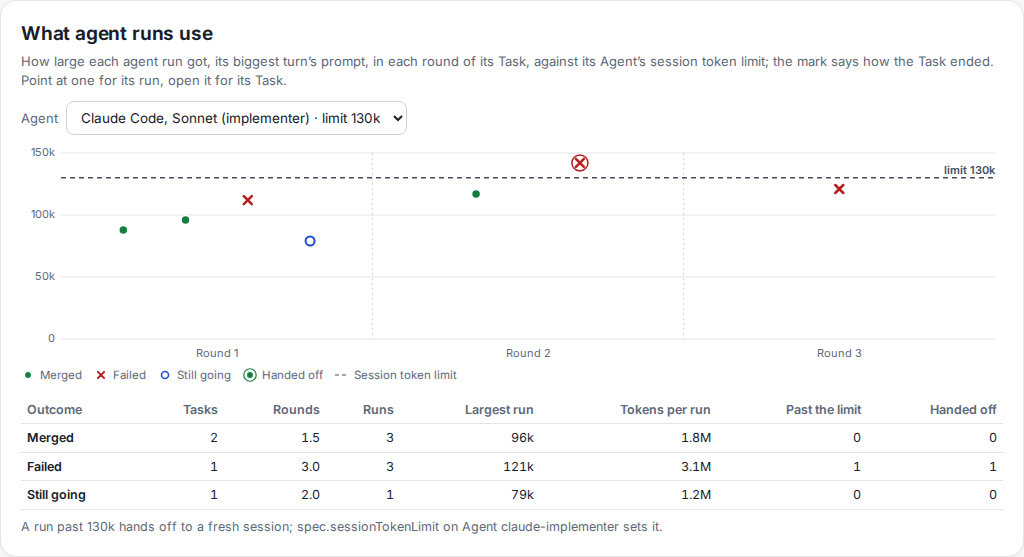
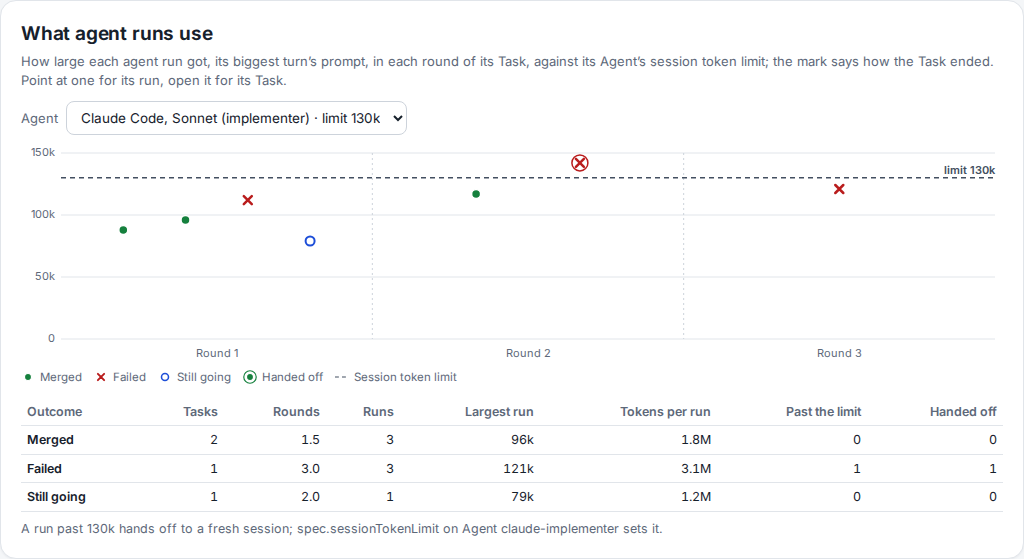
Answer the review of the agent-runs chart
- An Agent the panel can't find because the Agents couldn't be read says
  so, instead of calling it gone.
- The run links keep the focus ring.
- A band too narrow for "Round 10" says only the round's number.
- The legend has its own styles, not health.css's.
- A run without a largest session "didn't report how large it got".
- tokens.ts looks Agents up with findAgent and takes median from
  factory.ts; rows.ts calls runRole directly.

Refs #1086

Agent: otter-1086

diff --git a/ui/src/components/factory/TokensPanel.tsx b/ui/src/components/factory/TokensPanel.tsx
@@ -4,7 +4,7 @@
 
 import { useId, useMemo, useState, type ReactNode } from 'react'
 import type { Problem } from '../../k8s/sources'
-import type { Agent, Task } from '../../k8s/types'
+import { RESOURCES, type Agent, type Task } from '../../k8s/types'
 import { formatTokens } from '../../model/brief'
 import { plural } from '../../model/describe'
 import {
@@ -40,6 +40,8 @@ export function TokensPanel({
   const [picked, setPicked] = useState<string>()
   const shown = charted.find((a) => a.key === picked) ?? charted[0]
   const id = useId()
+  // An Agent the panel can't find may only be unreadable: the Agents are an optional read.
+  const agentsUnread = problems.some((p) => p.resource === RESOURCES.agents)
   const namespaces = new Set(charted.map((a) => a.namespace))
   const label = (a: AgentTokens) =>
     `${a.title}${namespaces.size > 1 ? ` (${a.namespace})` : ''}${a.limit ? ` · limit ${formatTokens(a.limit)}` : ''}`
@@ -58,7 +60,7 @@ export function TokensPanel({
         loading="Loading the agent runs…"
         emptyText={
           unreported
-            ? `None of the ${plural(unreported, 'agent run')} that ended reported its tokens yet; the stand-in agent reports none.`
+            ? `None of the ${plural(unreported, 'agent run')} that ended reported how large it got; the stand-in agent reports none.`
             : 'No agent run has ended yet: each shows here once its Task records it.'
         }
         small
@@ -92,9 +94,9 @@ export function TokensPanel({
               <OutcomeTable agent={shown} />
             </div>
             <p className="panel-note">
-              {limitNote(shown)}
+              {limitNote(shown, agentsUnread)}
               {shown.unreported
-                ? ` ${plural(shown.unreported, 'more run')} of this Agent didn’t report ${shown.unreported > 1 ? 'their' : 'its'} tokens.`
+                ? ` ${plural(shown.unreported, 'more run')} of this Agent didn’t report how large ${shown.unreported > 1 ? 'they' : 'it'} got.`
                 : ''}
             </p>
           </>
@@ -104,12 +106,17 @@ export function TokensPanel({
   )
 }
 
-function limitNote(agent: AgentTokens): string {
-  if (!agent.found) return `Agent ${agent.name} is gone, so its limit is unknown.`
+function limitNote(agent: AgentTokens, agentsUnread: boolean): string {
+  if (!agent.found)
+    return agentsUnread
+      ? `The Agents could not be read, so the limit of Agent ${agent.name} is unknown.`
+      : `Agent ${agent.name} is gone, so its limit is unknown.`
   if (agent.limit === undefined) return `Agent ${agent.name} sets no session token limit.`
   return `A run past ${formatTokens(agent.limit)} hands off to a fresh session; spec.sessionTokenLimit on Agent ${agent.name} sets it.`
 }
 
+/** The narrowest band that fits "Round 10"; a narrower one says only the number. */
+const ROUND_LABEL_WIDTH = 64
 /** The width the chart draws at before it has measured its own, as on the server. */
 const WIDTH = 640
 const H = 220
@@ -156,7 +163,7 @@ function RunChart({ agent, pageHref }: { agent: AgentTokens; pageHref: ObjectHre
                 />
               ) : null}
               <text className="tokens-tick" x={LEFT + (r - 0.5) * band} y={H - 6} textAnchor="middle">
-                Round {r}
+                {band >= ROUND_LABEL_WIDTH ? `Round ${r}` : r}
               </text>
             </g>
           ))}
@@ -212,7 +219,7 @@ function Mark({ outcome, handedOff, x, y }: { outcome: Outcome; handedOff: boole
 
 function Legend({ limit }: { limit: boolean }) {
   return (
-    <div className="spark-legend tokens-legend">
+    <div className="tokens-legend">
       {OUTCOMES.map((o) => (
         <span key={o.key}>
           <LegendKey>

diff --git a/ui/src/components/factory/TokensPanel.test.ts b/ui/src/components/factory/TokensPanel.test.ts
@@ -2,7 +2,8 @@ import { createElement } from 'react'
 import { renderToStaticMarkup } from 'react-dom/server'
 import { describe, expect, it } from 'vitest'
 import { demoStory } from '../../demo/fixture'
-import type { Task } from '../../k8s/types'
+import type { Problem } from '../../k8s/sources'
+import type { Agent, Task } from '../../k8s/types'
 import { TokensPanel } from './TokensPanel'
 
 const text = (html: string) =>
@@ -13,13 +14,13 @@ const text = (html: string) =>
 
 const story = demoStory(Date.parse('2026-10-16T04:00:00Z'))
 
-function panel(tasks: Task[] = story.tasks, loaded = true) {
+function panel(tasks: Task[] = story.tasks, loaded = true, agents: Agent[] = story.agents, problems: Problem[] = []) {
   return renderToStaticMarkup(
     createElement(TokensPanel, {
       tasks,
-      agents: story.agents,
+      agents,
       loaded,
-      problems: [],
+      problems,
       pageHref: (ns: string, kind: string, name: string) => `/?ns=${ns}&kind=${kind}&name=${name}`,
     }),
   )
@@ -72,7 +73,25 @@ describe('What agent runs use (#1086)', () => {
     }))
     const html = panel(standIn)
     expect(html).not.toContain('tokens-chart')
-    expect(text(html)).toContain('None of the 12 agent runs that ended reported its tokens yet')
+    expect(text(html)).toContain('None of the 12 agent runs that ended reported how large it got')
     expect(text(panel([], false))).toContain('Loading the agent runs…')
+  })
+
+  it('tells an Agent it can’t read from one that is gone', () => {
+    const forbidden: Problem = { what: 'agents', code: 403, message: 'agents is forbidden', resource: 'agents' }
+    expect(text(panel(story.tasks, true, [], [forbidden]))).toContain(
+      'The Agents could not be read, so the limit of Agent claude-implementer is unknown.',
+    )
+    const gone = text(panel(story.tasks, true, []))
+    expect(gone).toContain('Agent claude-implementer is gone, so its limit is unknown.')
+    expect(gone).not.toContain('limit 130k')
+  })
+
+  it('numbers the rounds alone when the bands are too narrow to say "Round 10"', () => {
+    const [first] = story.tasks
+    const long = { ...first, status: { ...first.status, round: 10, runs: [{ ...first.status!.runs![0], round: 10 }] } }
+    const labels = [...panel([long]).matchAll(/text-anchor="middle">(.*?)<\/text>/g)].map((m) => m[1])
+    expect(labels).toEqual(['1', '2', '3', '4', '5', '6', '7', '8', '9', '10'])
+    expect(panel()).toContain('>Round 3</text>')
   })
 })

diff --git a/ui/src/model/tokens.ts b/ui/src/model/tokens.ts
@@ -6,7 +6,7 @@
 import type { Agent, Task, TaskAgentRun, TokenUsage } from '../k8s/types'
 import { formatTokens } from './brief'
 import { plural } from './describe'
-import { taskHeadline, taskKey } from './factory'
+import { findAgent, median, taskHeadline, taskKey } from './factory'
 
 /** How a run's Task ended: merged, failed, or not yet. */
 export type Outcome = 'merged' | 'failed' | 'active'
@@ -161,7 +161,7 @@ export function agentTokens(tasks: Task[], agents: Agent[]): AgentTokens[] {
 }
 
 function newEntry(agents: Agent[], namespace: string, name: string): AgentTokens {
-  const agent = agents.find((a) => a.metadata.name === name && (a.metadata.namespace ?? '') === namespace)
+  const agent = findAgent(agents, namespace, name)
   return {
     key: `${namespace}/${name}`,
     name,
@@ -189,19 +189,13 @@ export function outcomeRows(points: RunPoint[], limit: number | undefined): Outc
       tasks: rounds.size,
       meanRounds: [...rounds.values()].reduce((a, b) => a + b, 0) / rounds.size,
       runs: runs.length,
-      medianLargest: median(runs.map((p) => p.largest)),
+      medianLargest: median(runs.map((p) => p.largest)) ?? 0,
       meanTotal: totals.length ? totals.reduce((a, b) => a + b, 0) / totals.length : undefined,
       pastLimit: limit === undefined ? 0 : runs.filter((p) => p.largest > limit).length,
       handedOff: runs.filter((p) => p.handoffs.length > 0).length,
     })
   }
   return rows
-}
-
-function median(values: number[]): number {
-  const sorted = [...values].sort((a, b) => a - b)
-  const mid = Math.floor(sorted.length / 2)
-  return sorted.length % 2 ? sorted[mid] : (sorted[mid - 1] + sorted[mid]) / 2
 }
 
 /**

diff --git a/ui/src/model/factory.ts b/ui/src/model/factory.ts
@@ -169,10 +169,15 @@ export interface AgentRole {
 }
 
 /** The Agent a reference names, in the namespace of the object that refers to it. */
-export function agentRole(agents: Agent[], namespace: string | undefined, name: string): AgentRole {
-  const agent = agents.find(
+export function findAgent(agents: Agent[], namespace: string | undefined, name: string): Agent | undefined {
+  return agents.find(
     (a) => a.metadata.name === name && (!namespace || !a.metadata.namespace || a.metadata.namespace === namespace),
   )
+}
+
+/** The Agent a reference names, as the views show it. */
+export function agentRole(agents: Agent[], namespace: string | undefined, name: string): AgentRole {
+  const agent = findAgent(agents, namespace, name)
   if (!agent) return { name, title: name, found: false }
   const model = agent.spec.model?.trim() || (agent.spec.harness === 'stand-in' ? 'stand-in' : undefined)
   return { name, title: agent.spec.displayName?.trim() || name, model, found: true }
@@ -275,7 +280,7 @@ export interface FactoryStats {
   withTimeline: number
 }
 
-function median(values: number[]): number | undefined {
+export function median(values: number[]): number | undefined {
   if (!values.length) return undefined
   const sorted = [...values].sort((a, b) => a - b)
   const mid = Math.floor(sorted.length / 2)

diff --git a/ui/src/components/objects/rows.ts b/ui/src/components/objects/rows.ts
@@ -112,7 +112,7 @@ export function agentRuns(task: Task): AgentRun[] {
   })
   const status = task.status
   if (status?.sandbox && !isFinal(status.phase)) {
-    const role = sandboxRole(status.sandbox) ?? (status.phase === 'Reviewing' ? 'review' : defaultRole(task))
+    const role = sandboxRole(status.sandbox) ?? (status.phase === 'Reviewing' ? 'review' : runRole(task, {}))
     const history = status.history ?? []
     const at = history[history.length - 1]?.at ?? status.phaseChangedAt ?? ''
     runs.push({
@@ -125,10 +125,6 @@ export function agentRuns(task: Task): AgentRun[] {
     })
   }
   return runs
-}
-
-function defaultRole(task: Task): RunRole {
-  return runRole(task, {})
 }
 
 /**

diff --git a/ui/src/components/factory/tokens.css b/ui/src/components/factory/tokens.css
@@ -95,13 +95,19 @@
   fill: color-mix(in srgb, var(--mark) 18%, transparent);
 }
 
-.tokens-run:focus-visible {
-  outline: none;
+.tokens-legend {
+  display: flex;
+  flex-wrap: wrap;
+  gap: 12px;
+  margin-top: 6px;
+  font-size: 11.5px;
+  color: var(--text-3);
 }
 
-.tokens-legend {
-  flex-wrap: wrap;
-  margin-top: 6px;
+.tokens-legend > span {
+  display: inline-flex;
+  align-items: center;
+  gap: 5px;
 }
 
 .tokens-key {
